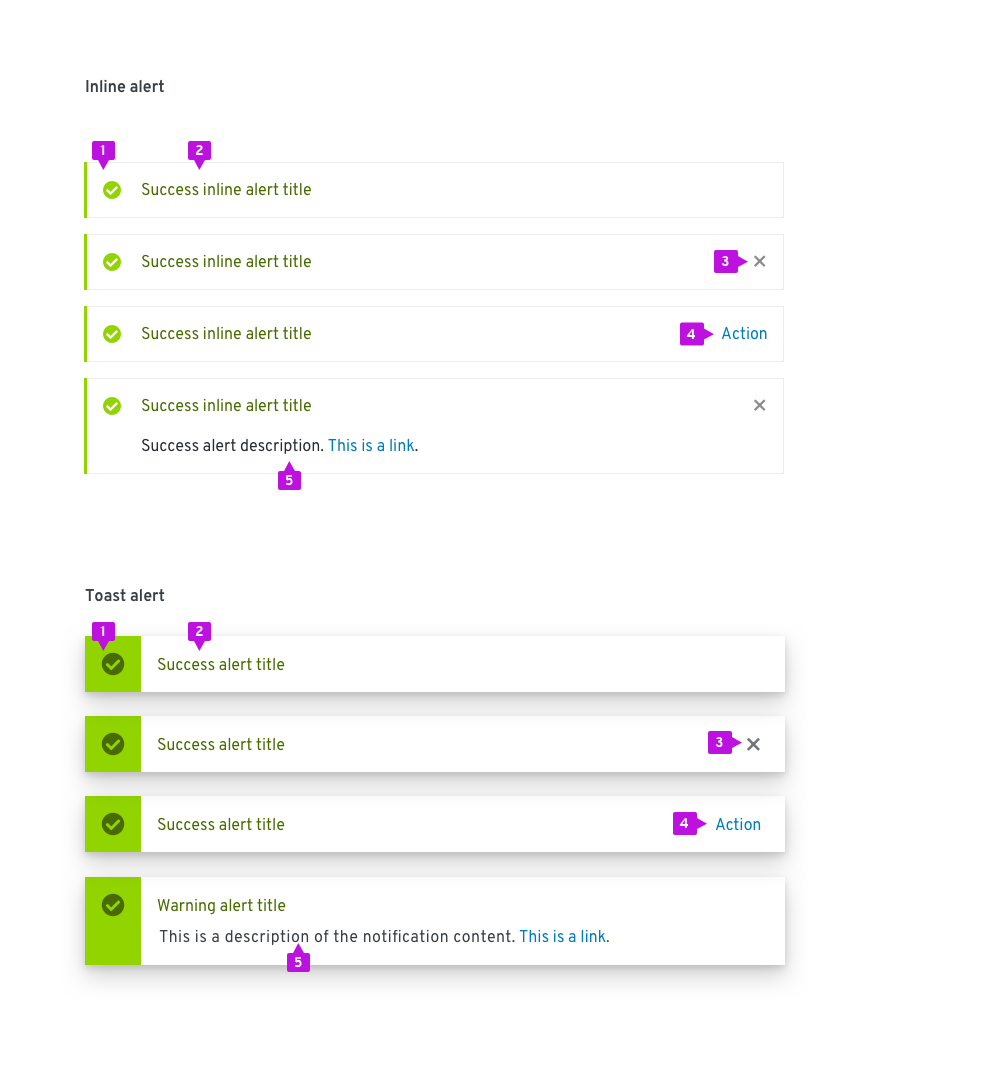
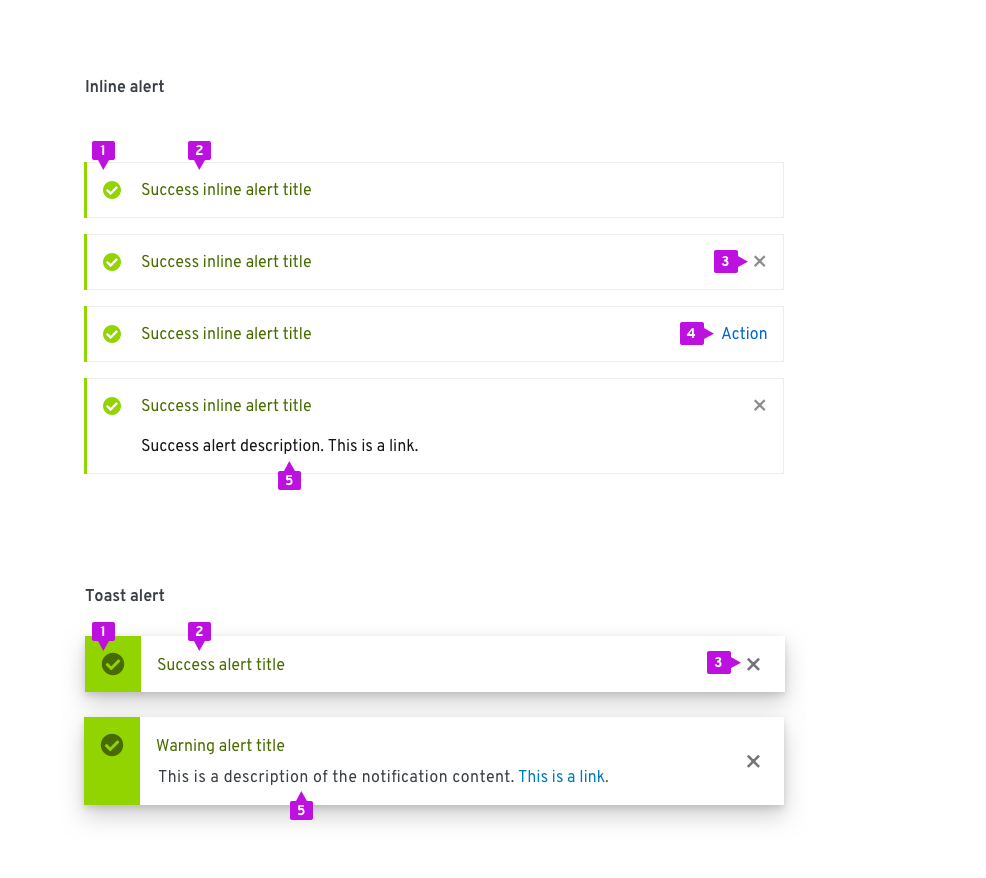
Updates per issue #1291 to clarify toast alert documentation

diff --git a/packages/patternfly-4/content/design-guidelines/usage-and-behavior/alerts-and-notifications/design.md b/packages/patternfly-4/content/design-guidelines/usage-and-behavior/alerts-and-notifications/design.md
@@ -6,13 +6,13 @@ Alerts are used when the system wants to notify the user about some status or ot
 
 ## Elements
 ### Alert
-Alerts are used to communicate status information to the user without blocking other actions through the user interface. There are two styles that can be applied to an alert depending on whether it is intended as an [inline](#inline-alerts) or [toast](#toast-alerts) alert. Regardless of the styling, the basic elements of all alerts are consistent.
+Alerts are used to communicate status information to the user without blocking other actions through the user interface. There are two styles that can be applied to an alert depending on whether it is intended as an [inline](#inline-alerts) or [toast](#toast-alerts) alert. Regardless of the styling, the basic elements of all alerts are consistent. Since toast alerts should always be dismissable, only a subset of variations should be used.
 
 ![alert types](./img/alert-types-2.png)
 
 1. **Status area:** Use an icon and color to indicate status or severity of the alert.
 2. **Alert title:** Include a short descriptive message. Long message text will wrap. Text color is coded to match alert type.
-3. **Close (optional):** Dismiss the alert.
+3. **Close (optional):** Dismiss the alert. Note that toast alerts must always have a Close action.
 4. **Action (optional):** An action can be placed inside of an alert. Only a single action is supported. Note that the alert can include a close button or a single action, but not both.
 5. **Description (optional):** If a longer message is required, it can be included within the Description field.
 
@@ -21,13 +21,13 @@ The status area and alert title are coded to communicate the severity of an aler
 
 ![alert colors](./img/alert-status.png)
 
-|Type     |Color    |Icon    |Usage      |
+|Type     |Color (background/ icon & title)    |Icon    |Usage      |
 |---------|---------|--------|--------------|
-|Info     |Blue (#39A5DC)    |fa-info-circle|Use for general informational messages (default)|
-|Warning  |Orange (#F0AB00)  |fa-exclamation-triangle |Use to indicate that a non-critical error has occurred|
-|Critical |Red (#CC0000)     |fa-exclamation-circle | Use to indicate that a critical or blocking error has occurred
-|Success  |Green (#92D400)   |fa-check-circle | Use to indicate that a task or process has completed successfully
-|Default  |Cyan (#73C5C5)   |fa-bell | Use for generic messages with no associated severity
+|Info     |Blue (#73bcf7/ #004368)    |fa-info-circle|Use for general informational messages (default)|
+|Warning  |Orange (#F0AB00/ #795600)  |fa-exclamation-triangle |Use to indicate that a non-critical error has occurred|
+|Critical |Red (#c9190b/ #a30000)     |fa-exclamation-circle | Use to indicate that a critical or blocking error has occurred
+|Success  |Green (#92D400/ #486b00)   |fa-check-circle | Use to indicate that a task or process has completed successfully
+|Default  |Cyan (#73C5C5/ #004368)   |fa-bell | Use for generic messages with no associated severity
 
 ## Usage
 There are two primary use cases when alerts are used:
